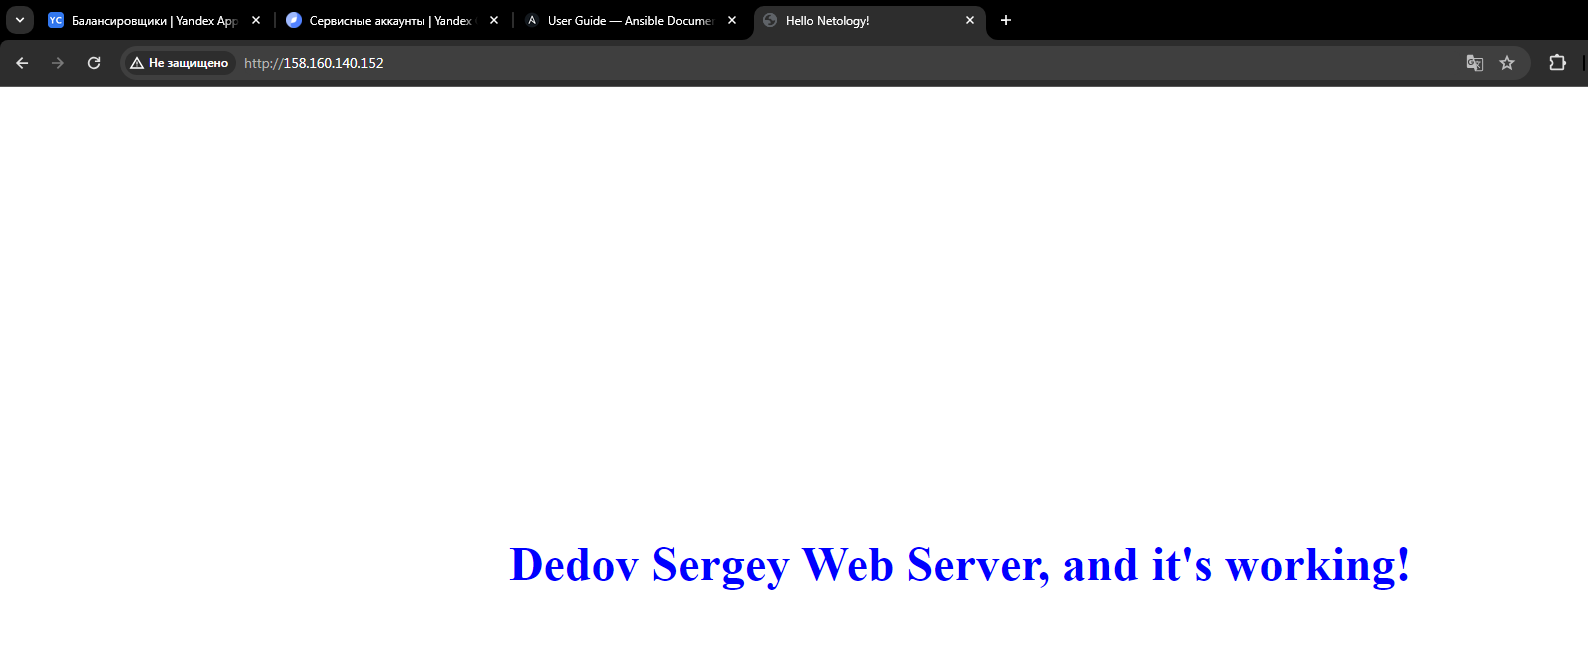
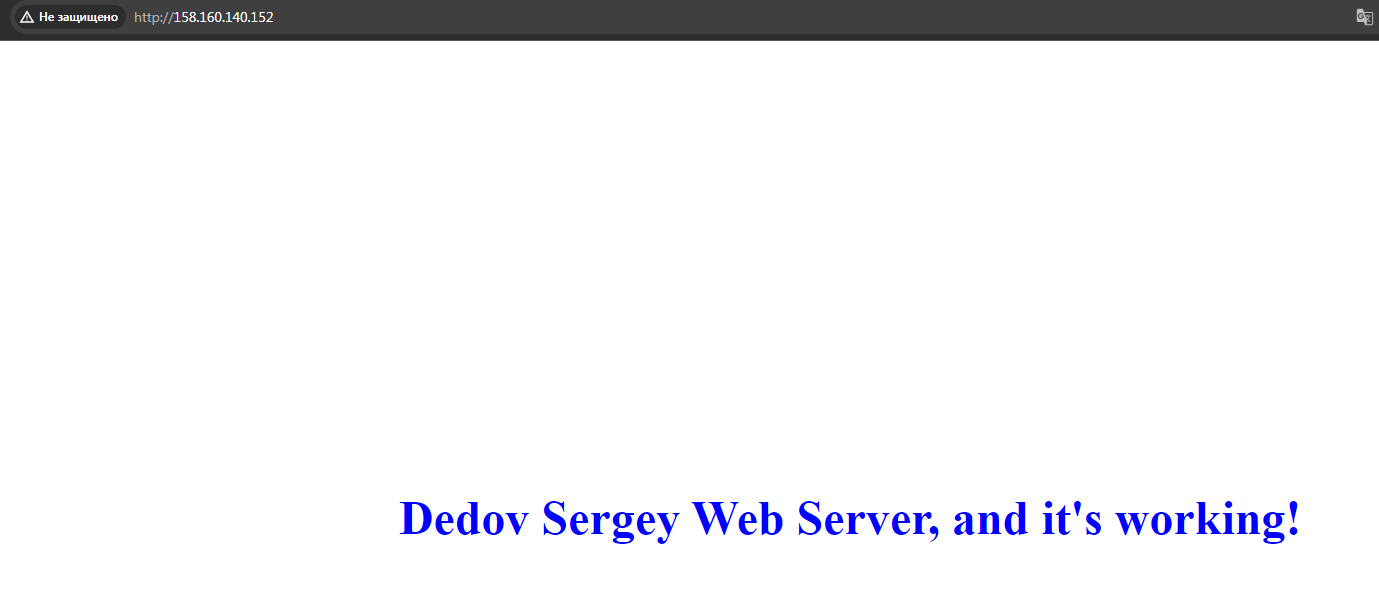
commit -m

Changed region(s): [[0.0, 0.0, 1.0, 0.1562], [0.2806, 0.8125, 0.9355, 0.9062], [0.9355, 0.8125, 0.9666, 0.8438]]

diff --git a/README.md b/README.md
@@ -49,6 +49,37 @@
 Протестируйте сайт
 `curl -v <публичный IP балансера>:80` 
 
+### Реализация сайта
+
+При помощи Terraform была поднята инфраструктура. ВМ nginx1 находится в зоне ru-central1-a, ВМ nginx2 - в зоне ru-central1-b, остальные ВМ размещены в зоне ru-central1-c.
+
+![Дашборд](https://github.com/DedovSG/sys-diplomDedovSG/blob/diplom-zabbix/Screenshots/VM-YandexCloud.png)
+
+![Список ВМ](https://github.com/DedovSG/sys-diplomDedovSG/blob/diplom-zabbix/Screenshots/VM-YandexCloud2.png)
+
+Создана Target Group и в неё включены две ВМ с nginx'ом
+
+![Target Group](https://github.com/DedovSG/sys-diplomDedovSG/blob/diplom-zabbix/Screenshots/tg-group.png)
+
+Создана Backend Group настроена на target group. Настроен healthcheck на корень (/) и порт 80, протокол HTTP.
+
+![Backend Group](https://github.com/DedovSG/sys-diplomDedovSG/blob/diplom-zabbix/Screenshots/be-group.png)
+
+Создан HTTP router. Путь указан — /, backend group — указанна.
+
+![HTTP-router](https://github.com/DedovSG/sys-diplomDedovSG/blob/diplom-zabbix/Screenshots/httprouter.png)
+
+Создан Application load balancer для распределения трафика на веб-сервера, созданные ранее. Указан HTTP router, созданный ранее, задан listener тип auto, порт 80.
+
+![Application load balancer](https://github.com/DedovSG/sys-diplomDedovSG/blob/diplom-zabbix/Screenshots/alb.png)
+
+Протестирован сайт с помощью curl 
+
+![Curl -v 158.160.140.152:80](https://github.com/DedovSG/sys-diplomDedovSG/blob/diplom-zabbix/Screenshots/curlNginx.png)
+
+Веб-морда
+![158.160.140.152](https://github.com/DedovSG/sys-diplomDedovSG/blob/diplom-zabbix/Screenshots/NGINX.png)
+
 ### Мониторинг
 Создайте ВМ, разверните на ней Zabbix. На каждую ВМ установите Zabbix Agent, настройте агенты на отправление метрик в Zabbix. 
 
